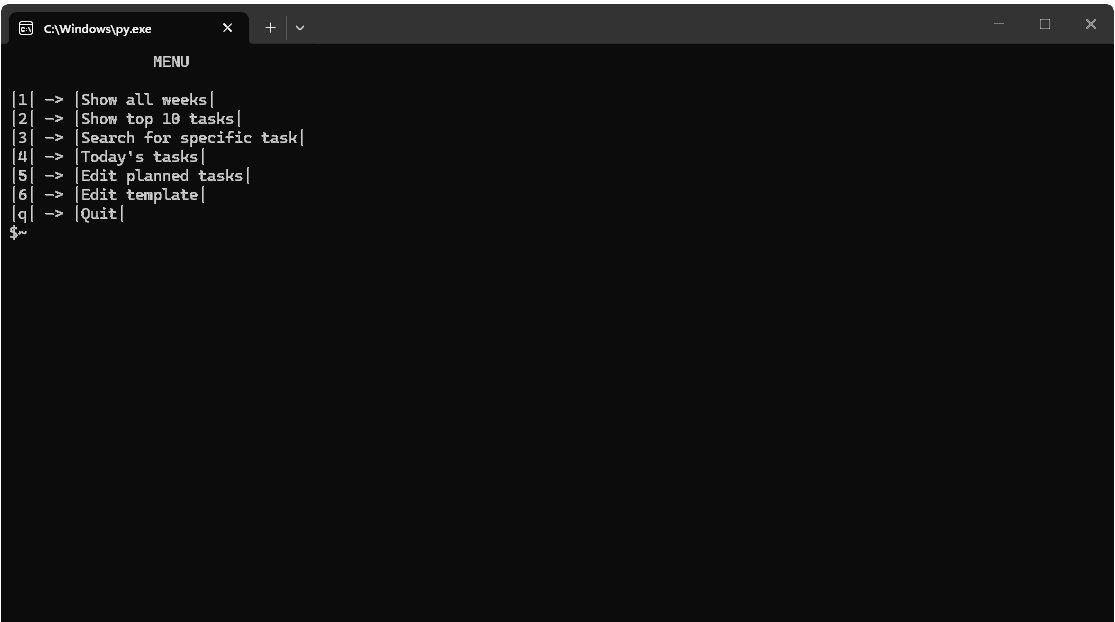
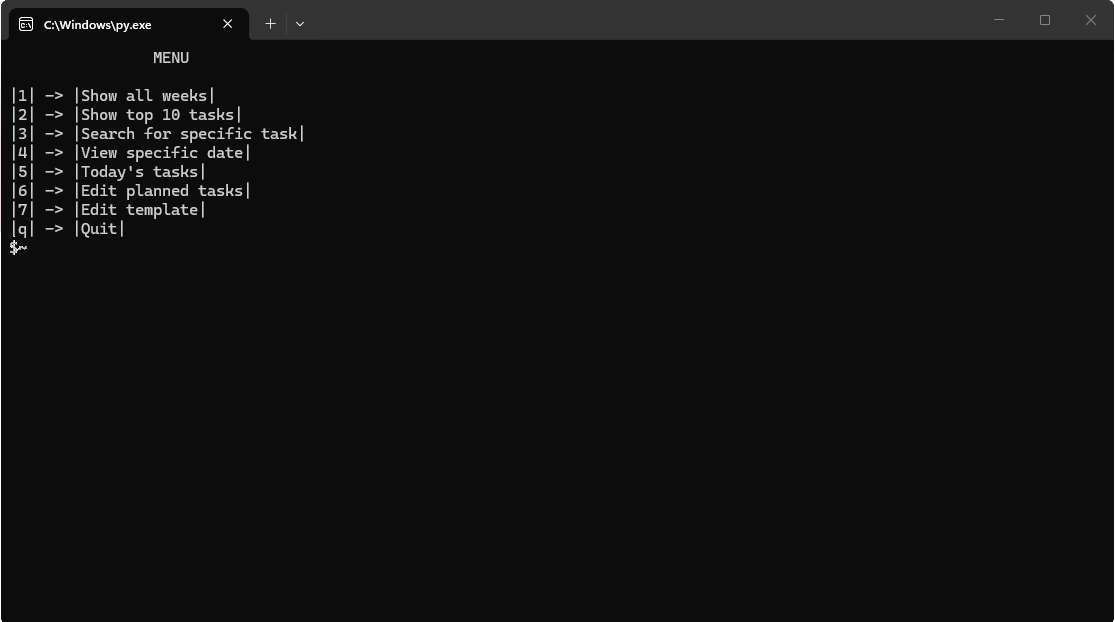
feat: added option to view specific date

Changed region(s): [[0.0, 0.0, 1.0, 0.0916], [0.0, 0.1527, 0.2744, 0.3971], [0.122, 0.0916, 0.183, 0.1222]]

diff --git a/dll.py b/dll.py
@@ -13,7 +13,7 @@ def clear(platform_system):
         os.system("clear")
 def menu(platform_system):
     clear(platform_system)
-    end = input("\t\tMENU\t\t\n\n|1| -> |Show all weeks|\n|2| -> |Show top 10 tasks|\n|3| -> |Search for specific task|\n|4| -> |Today's tasks|\n|5| -> |Edit planned tasks|\n|6| -> |Edit template|\n|q| -> |Quit|\n$~ ")
+    end = input("\t\tMENU\t\t\n\n|1| -> |Show all weeks|\n|2| -> |Show top 10 tasks|\n|3| -> |Search for specific task|\n|4| -> |View specific date|\n|5| -> |Today's tasks|\n|6| -> |Edit planned tasks|\n|7| -> |Edit template|\n|q| -> |Quit|\n$~ ")
     clear(platform_system)
     return end
 def init():
@@ -260,3 +260,61 @@ def check_year_count(year, month, day, count):
             weeks_num.append(weeks - days_of_years[years.index(year)]//7)
             weeks -= days_of_years[years.index(year)]/7
     return weeks_num, years
+
+def get_day_msg(q, platform_system):
+    try:
+        clear(platform_system)
+        printed = 0
+        day = int(q.split(".")[0])
+        month = int(q.split(".")[1])
+        year = int(q.split(".")[2])
+        with open("start.cfg", "r") as f: r = f.readlines()[0]
+        now = datetime.now()
+        max_value = date(int(str(now).split(" ")[0].split("-")[0]), int(str(now).split(" ")[0].split("-")[1]), int(str(now).split(" ")[0].split("-")[2])) - date(int(r.split("-")[0]),int(r.split("-")[1]),int(r.split("-")[2]))
+        value = date(year, month, day) - date(int(r.split("-")[0]),int(r.split("-")[1]),int(r.split("-")[2]))
+        try:
+            value = int(str(value).split(" ")[0])
+        except:
+            value = 1
+        max_value = int(str(max_value).split(" ")[0])
+        if value < 1 or value > max_value: print("Date not available...")
+        else:
+            week = math.floor(value/7)
+            if week*7 == max_value-max_value%7 and value != week*7:
+                with open(f"toDo.cfg", "r", encoding="utf-8") as f: r = f.readlines()
+            else:
+                if week*7 == max_value-max_value%7 and value == week*7: week -= 1#Last day of last possible week? Avoid errors
+                os.chdir("weeks")
+                with open(f"{week+1}.week.cfg", "r", encoding="utf-8") as f: r = f.readlines()
+                os.chdir("..")
+            tasks = r[value%7-1].strip().split(";")
+            if len(tasks) > 1:
+                tasks = tasks[1].split(",")
+                for task in tasks:
+                    try:
+                        one = task.split(":")[0]
+                        two = task.split(":")[1]
+                    except IndexError:
+                        if len(task) >= 1 and tasks[-1] is not task: #If the task is short and the task is last in list, ignore this task
+                            if platform.release() != "11" and platform_system == "Windows":
+                                two = "Undone"
+                            else:
+                                two = "✘"
+                        else:
+                            continue
+                    if two.lower() == "done":
+                        if platform.release() != "11" and platform_system == "Windows":
+                            two = "Done"
+                        else:
+                            two = "✓"
+                    else:
+                        if platform.release() != "11" and platform_system == "Windows":
+                            two = "Undone"
+                        else:
+                            two = "✘"
+                    print(f"|{tasks.index(task)+1}|. {one} {two}")
+                    printed += 1
+        if printed == 0: print("No tasks")
+    except Exception as e:
+        print(f"Error occurred: {e}")
+        

diff --git a/main.py b/main.py
@@ -6,7 +6,7 @@ def main(count, day, days, weekday, platform_system, year, month):
     end = ""
     while end.lower() != "q":
         end = menu(platform_system)
-        if end in ["1", "2", "3"]: #Options, where data load is needed
+        if end in ["1", "2", "3", "4"]: #Options, where data load is needed
             now = datetime.now()
             year = int(str(now).split(" ")[0].split("-")[0])
             month = int(str(now).split(" ")[0].split("-")[1])
@@ -104,8 +104,14 @@ def main(count, day, days, weekday, platform_system, year, month):
                         print("Nothing corresponds to your search")
                 input()
                 clear(platform_system)
+            if "4" == end:
+                clear(platform_system)
+                q3 = input("Enter specific date($f=DD.MM.YYYY)\n$~ ")
+                get_day_msg(q3, platform_system)
+                input()
 
-        if "4" == end:
+
+        if "5" == end:
             now = datetime.now()
             hour = now.hour
             day = days[now.weekday()]
@@ -122,7 +128,7 @@ def main(count, day, days, weekday, platform_system, year, month):
                         break
                     mark_tasks(ok, tasks, listos, saved, linos)
 
-        if end == "5":
+        if end == "6":
             q1 = input("Enter number of week you want to edit:\n|1| -> |This week|\n|2| -> |Next week|\n$~ ")
             clear(platform_system)
             if q1 == "1":
@@ -160,7 +166,7 @@ def main(count, day, days, weekday, platform_system, year, month):
                     writing_changes(q2, days, lines, edit_file, q2-1, platform_system)
 
             
-        if end == "6":
+        if end == "7":
             temp = ""
             while temp.lower() != "q":
                 clear(platform_system)